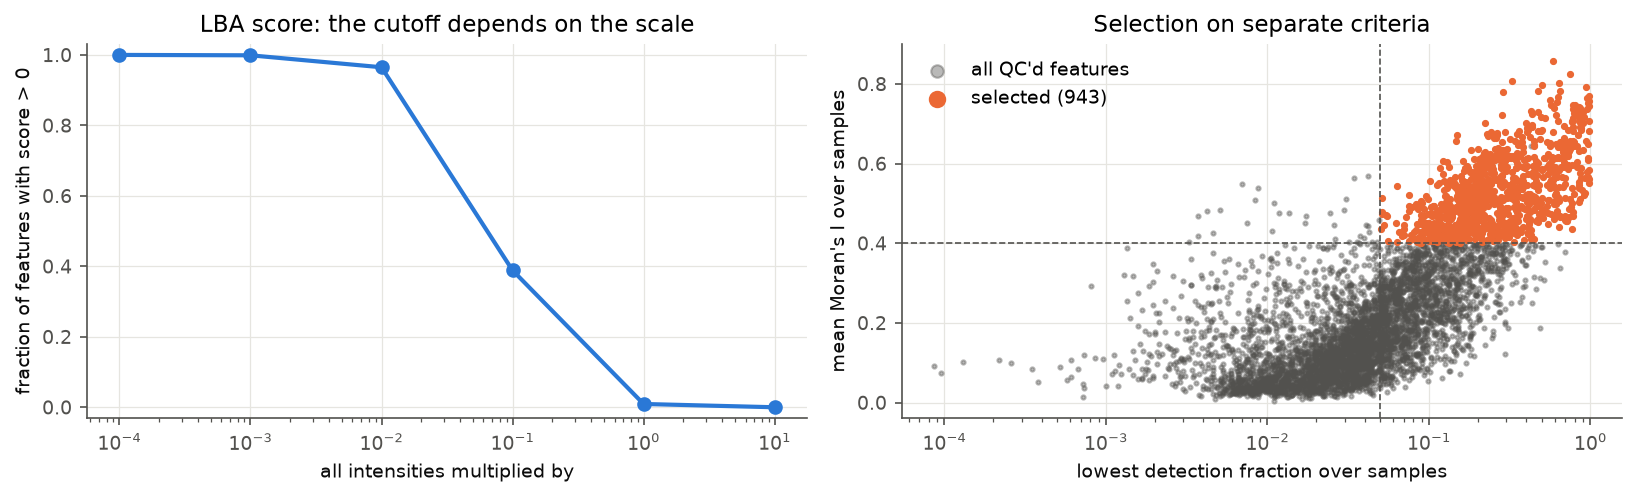
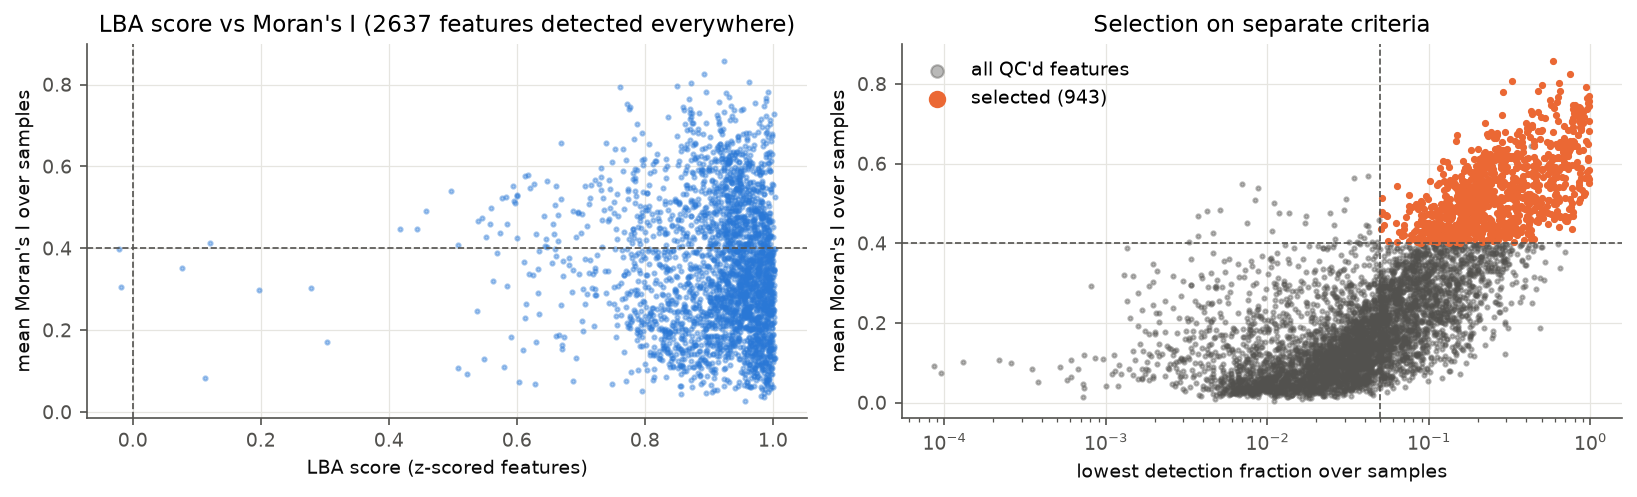
Tutorial 3-1: LBA score on z-scored features as in the LBA notebook and EUCLID; new Figure 3-1 left
Claude-Session: https://claude.ai/code/session_01FXoeyATFVqF4whg9rVjNnw

diff --git a/scripts/analysis_examples.py b/scripts/analysis_examples.py
@@ -43,7 +43,7 @@ def run(adata, out, batch="sample", name=None, resolution=1.0, n_components=16, 
     name = name if name is not None else adata.var["mz"].map(lambda m: f"m/z {m:.4f}")
     X = dense(adata.X).astype(np.float32)
 
-    # ---- 3-1 feature selection: Moran's I per sample (2-5), the LBA heuristic, and a standardized alternative
+    # ---- 3-1 feature selection: Moran's I per sample (2-5), the LBA score, and selection on separate criteria
     morans = pd.DataFrame(index=adata.var_names, columns=samples, dtype=float)
     for s in samples:
         S = adata[adata.obs[batch] == s].copy()
@@ -52,27 +52,28 @@ def run(adata, out, batch="sample", name=None, resolution=1.0, n_components=16, 
         sq.gr.spatial_autocorr(S, mode="moran", genes=S.var_names.tolist(), n_perms=None, show_progress_bar=False)
         morans[s] = S.uns["moranI"]["I"].reindex(adata.var_names)
     features = list(adata.var_names)
-    df = pd.DataFrame(X, columns=features, index=adata.obs_names).assign(Section=adata.obs[batch].to_numpy())
-    # the LBA heuristic as in 3-1, on the data at their own scale and after dividing all values by a constant
-    frac_pass = {}
-    for c in [1e-4, 1e-3, 1e-2, 1e-1, 1, 10]:
-        d = df[features] * c
-        sec_var = d.groupby(df["Section"]).var()
-        score = sec_var.mean() - sec_var.var() / 2
-        frac_pass[c] = float((score > 0).mean())
     det = pd.DataFrame({s: (X[(adata.obs[batch] == s).to_numpy()] > 0).mean(axis=0) for s in samples}, index=features)
     mean_moran = morans.mean(axis=1)
+    # the LBA score as in the LBA notebook and EUCLID: section variances of every feature z-scored over all pixels
+    total_var = X.var(axis=0, dtype=np.float64)
+    sv = np.vstack([X[(adata.obs[batch] == s).to_numpy()].var(axis=0, dtype=np.float64) for s in samples])
+    sv = sv / np.where(total_var > 0, total_var, np.nan)
+    lba = pd.Series(sv.mean(axis=0) - sv.var(axis=0) / 2, index=features)
+    everywhere = det.min(axis=1) >= 0.05
+    from scipy.stats import spearmanr
+    lba_num = {"detected_everywhere": int(everywhere.sum()), "score_pos": int((lba[everywhere] > 0).sum()),
+               "rho_moran": round(float(spearmanr(lba[everywhere], mean_moran[everywhere]).statistic), 2)}
     selected = mean_moran.index[(mean_moran > 0.4) & (det.min(axis=1) >= 0.05)]   # structured and detected everywhere
     # one well-detected, structured lipid is kept out of the embedding, to be restored from it in 3-4
     target = mean_moran[selected][det.loc[selected].min(axis=1) >= 0.3].sort_values().index
     target = target[int(0.75 * (len(target) - 1))]
     selected = selected.drop(target)
-    num.update(features=len(features), selected=len(selected), score_pass=frac_pass)
+    num.update(features=len(features), selected=len(selected), lba=lba_num)
     fig, ax = plt.subplots(1, 2, figsize=(11, 3.4))
-    ax[0].plot(list(frac_pass), list(frac_pass.values()), "o-", color=PAL[0], lw=2, ms=6)
-    ax[0].set_xscale("log"); ax[0].set_ylim(-0.03, 1.03)
-    ax[0].set(xlabel="all intensities multiplied by", ylabel="fraction of features with score > 0",
-              title="LBA score: the cutoff depends on the scale")
+    ax[0].scatter(lba[everywhere], mean_moran[everywhere], s=4, color=PAL[0], alpha=0.4, rasterized=True)
+    ax[0].axvline(0, color=MUTED, lw=0.8, ls="--"); ax[0].axhline(0.4, color=MUTED, lw=0.8, ls="--")
+    ax[0].set(xlabel="LBA score (z-scored features)", ylabel="mean Moran's I over samples",
+              title=f"LBA score vs Moran's I ({lba_num['detected_everywhere']} features detected everywhere)")
     ok = det.min(axis=1) >= 0.05
     ax[1].scatter(det.min(axis=1), mean_moran, s=4, color=MUTED, alpha=0.4, label="all QC'd features")
     ax[1].scatter(det.min(axis=1)[selected], mean_moran[selected], s=6, color=PAL[1], label=f"selected ({len(selected)})")

diff --git a/Tutorial.md b/Tutorial.md
@@ -1706,8 +1706,8 @@ Keep **three versions** of the intensities in the object, and be explicit about 
 
 ### 3-1 Feature selection
 <sub><a href="#top">(Back to top)</a></sub></br>
-As with highly variable genes in scRNA-seq, clustering works better on a subset of informative, well-measured features. For the LBA, "well-measured" meant consistent across serial sections. The LBA (notebook `004-FeatureSelectionForEmbedding`, reference brain only) computed for each feature
-* the mean of the section-wise variances (high = informative within sections),
+As with highly variable genes in scRNA-seq, clustering works better on a subset of informative, well-measured features. For the LBA, "well-measured" meant consistent across serial sections. The LBA (notebook `004-FeatureSelectionForEmbedding`, reference brain only) first z-scored every feature over all pixels (after setting values above 1, considered broken, to 1e-4), so that every feature has a total variance of 1, and then computed for each feature
+* the mean of the section-wise variances (high = the variance lies within sections rather than between section means),
 * the variance of the section-wise variances (high = inconsistent between sections, i.e. batch-affected), combined as `score = mean_of_vars - var_of_vars / 2`,
 * the mean Moran's I (> 0.4 required),
 * the number of sections in which the feature drops out (section mean < 1.5e-4; fewer than 4 dropouts allowed),
@@ -1716,7 +1716,7 @@ then clustered features in this score space with k-means (k = 10), inspected the
 
 ```python
 # prep (the EUCLID Preprocessing object) and final_table: created in 2-8; morans_df: prep.calculate_moran in 2-9
-prep.min0max1_normalize_clip()            # per-lipid 0-1 scaling for comparability
+prep.min0max1_normalize_clip()            # per-lipid 0-1 scaling, stored in obsm["X_01norm"] (not used below)
 prep.feature_selection(morans_df, modality="combined", moran_threshold=0.25,
                        cluster_k=10, output_csv="feature_scores.csv",
                        remove_untrustworthy=False)
@@ -1726,7 +1726,7 @@ reaction_df = prep.reaction_network(lipid_props_df)
 prep.save_msi_dataset()
 ```
 
-(Note that the EUCLID tutorial uses `moran_threshold=0.25` while the LBA notebooks used 0.4.)
+(Note that the EUCLID tutorial uses `moran_threshold=0.25` while the LBA notebooks used 0.4.) `feature_selection` computes the score as the notebook did, including the replacement of values above 1 by 1e-4, on `adata.X`. This assumes the scale of uMAIA-normalized values; on TIC-normalized intensities nearly all values are above 1 and would be replaced. The dropout threshold (1.5e-4) is on the same scale.
 
 #### Without EUCLID (scanpy and squidpy)
 Start from the table written in 2-9. Its `X` is a copy of the normalized intensities in `layers["tic_curated"]` (2-6), without a log transform. As in scRNA-seq, log-transform `X` first; the normalized values stay in the layer. Several steps need them: the LBA score and Moran's I below (computed on them in 2-5 as well), NMF (3-2), and all comparisons of intensities (3-4 to 3-6). The per-section summaries come from `sc.get.aggregate`:
@@ -1769,12 +1769,16 @@ morans = pd.DataFrame(morans)                        # features x sections
 The LBA heuristic is then:
 
 ```python
-score = sec_var.mean() - sec_var.var() / 2           # over sections: mean minus half the variance of the within-section variance
-dropouts = (sec_mean < 1.5e-4).sum()
+# the LBA z-scores every feature over all pixels first: section variances relative to the total variance
+adata.obs["all_pixels"] = "all"
+total_var = sc.get.aggregate(adata, by="all_pixels", func="var", layer="tic_curated").layers["var"][0]
+sec_var_z = sec_var / total_var
+score = sec_var_z.mean() - sec_var_z.var(ddof=0) / 2   # over sections: mean minus half the variance of the section variances
+dropouts = (sec_mean < 1.5e-4).sum()                  # 1.5e-4 is on the uMAIA scale; on other scales use det
 keep_lba = (morans.mean(axis=1) > 0.4) & (dropouts < 4) & (score > 0)
 ```
 
-The score subtracts quantities with different units (a variance and a variance of variances), so its value and the `score > 0` cutoff depend on the intensity scale. For new data, use separate criteria with their own meaning instead, such as within-sample variance, recurrence, spatial structure and replicate reproducibility. Here, spatial structure and detection in every section:
+Because every feature is z-scored, its total variance is 1, and the mean of the section variances is the share of its variance that lies within sections rather than between section means. The score is therefore high for features whose variance lies within sections and is similar in all sections, and it does not depend on the intensity scale. It does not say whether this variance is spatial structure or noise; that is what Moran's I adds. The cutoff `score > 0` removes few features; in the LBA, the selection came from the k-means clusters in score space and the inspection of their images. For new data, use criteria that can be read on their own, such as recurrence, spatial structure and replicate reproducibility. Here, spatial structure and detection in every section:
 
 ```python
 adata.var["moran_mean"] = morans.mean(axis=1)
@@ -1783,13 +1787,13 @@ adata.var["selected"] = (adata.var["moran_mean"] > 0.4) & (adata.var["det_min"] 
 selected = adata.var_names[adata.var["selected"]]    # the features used for the embedding (3-2)
 ```
 
-On the three zebrafish sections of 1-5, preprocessed as for the figures of section 2 (5,486 features detected in at least 5% of the tissue pixels of one section, TIC-normalized), the score behaves exactly like this: multiplying all intensities by a constant changes the fraction of features with a positive score from almost all to almost none (Figure 3-1, left). Separate criteria do not have this problem. 944 features have a mean Moran's I above 0.4 and are detected in at least 5% of the tissue pixels of every section (right). The figures below use 943 of them; one is kept out of the embedding to be restored from it in 3-4.
+On the three zebrafish sections of 1-5, preprocessed as for the figures of section 2 (5,486 features detected in at least 5% of the tissue pixels of one section, TIC-normalized), 2,635 of the 2,637 features detected in at least 5% of the tissue pixels of every section have a positive LBA score, and the score is not correlated with Moran's I (Spearman ρ = -0.08; Figure 3-1, left). 944 features have a mean Moran's I above 0.4 and are detected in at least 5% of the tissue pixels of every section (right). The figures below use 943 of them; one is kept out of the embedding to be restored from it in 3-4.
 
 ![Feature selection](figures/fig_3-1_features.png)
-*Figure 3-1. Left: fraction of the 5,486 zebrafish features with a positive LBA score after all intensities were multiplied by a constant; the cutoff `score > 0` selects almost all or almost none of them depending on the scale. Right: mean Moran's I against the lowest detection fraction over the three sections; the selected features (orange) pass both criteria (`scripts/make_analysis_figures.py`).*
+*Figure 3-1. Left: LBA score (on z-scored features, as in the LBA) against mean Moran's I for the 2,637 zebrafish features detected in at least 5% of the tissue pixels of every section; dashed lines: the cutoffs `score > 0` and Moran's I > 0.4. Right: mean Moran's I against the lowest detection fraction over the three sections; the selected features (orange) pass both criteria (`scripts/make_analysis_figures.py`).*
 
 #### scanpy's highly variable features in place of the LBA score
-The idea behind the LBA score, variance within sections that is consistent between sections, can be kept without its dependence on the intensity scale. In scRNA-seq this is the job of `sc.pp.highly_variable_genes`. None of its flavors computes the LBA score, but `flavor="seurat"` with `batch_key` does something close: for each section, it computes the dispersion (variance over mean) of every feature and standardizes it among features of similar mean; it then averages the standardized dispersion over sections and calls features above a cutoff highly variable. It replaces the score; detection and Moran's I remain separate criteria:
+In scRNA-seq, informative features are chosen with `sc.pp.highly_variable_genes`. None of its flavors computes the LBA score, but `flavor="seurat"` with `batch_key` is related: for each section, it computes the dispersion (variance over mean) of every feature and standardizes it among features of similar mean; it then averages the standardized dispersion over sections and calls features above a cutoff highly variable. Like the LBA score, it looks at the variance within each section, combines the sections, and does not depend on the intensity scale. It differs in what the variance is compared with: the LBA score compares the variance of a feature within sections with its total variance, the standardized dispersion compares it with that of features of similar abundance. It can replace the score; detection and Moran's I remain separate criteria:
 
 ```python
 detected = adata[:, adata.var["det_min"] >= 0.05].copy()     # detection first: sparse features have a high dispersion
@@ -1804,15 +1808,15 @@ Two settings differ from the scRNA-seq defaults:
 
 Because the dispersion is averaged, a feature that is very variable in one section can pass. For strict consistency, require the feature to be highly variable in every section (`detected.var["highly_variable_intersection"]`). Alternatively, `n_top_genes` fixes the number of features instead of the cutoff; it ignores `min_mean`, `max_mean` and `min_disp`, and ranks features first by the number of sections in which they are highly variable.
 
-On the zebrafish sections, 808 of the 2,637 detected features are called highly variable (468 in all three sections). For comparison with the LBA score, the table ranks the same 2,637 features by the score and takes the top 808, at the scale of the data and after multiplying all intensities by a small constant:
+On the zebrafish sections, 808 of the 2,637 detected features are called highly variable (468 in all three sections). For comparison, the table ranks the same 2,637 features by the LBA score and takes the top 808:
 
-| Criterion (on the 2,637 detected features) | Spearman ρ with mean intensity | Spearman ρ with mean Moran's I | Features with score > 0 | Of the top 808: mean Moran's I > 0.4 |
-|---|---|---|---|---|
-| Standardized dispersion (`flavor="seurat"`) | 0.08 | 0.23 | - | 389 |
-| LBA score, intensities × 1e-4 | 0.96 | 0.79 | 2,637 | 661 |
-| LBA score, intensities × 1 (TIC scale) | -0.84 | -0.67 | 18 | 51 |
+| Criterion (on the 2,637 detected features) | Spearman ρ with mean intensity | Spearman ρ with mean Moran's I | Of the top 808: mean Moran's I > 0.4 |
+|---|---|---|---|
+| Standardized dispersion (`flavor="seurat"`) | 0.08 | 0.23 | 389 |
+| LBA score (z-scored features) | -0.29 | -0.08 | 221 |
+| (all 2,637 detected features) | | | 944 of 2,637 |
 
-At a small scale, the mean of the variances dominates the score, and the score ranks features by their variance within sections, which follows abundance. At the scale of the data, the variance of the variances dominates, and the ranking reverses. In neither case does the score measure consistency between sections independently of abundance. Its agreement with Moran's I at a small scale also comes from abundance: Moran's I itself is correlated with mean intensity (ρ = 0.78), because abundant lipids have a better signal-to-noise ratio. The standardized dispersion is independent of abundance by construction and only weakly correlated with Moran's I, so it adds information that Moran's I does not have. The two criteria measure different things, pixel-to-pixel variance and spatial structure, and both are needed; 389 features pass both (`selected_hvf`). Like the 0.4 for Moran's I, `min_disp` is a choice; check the images of features just above and just below both cutoffs.
+Neither score follows abundance closely, but they rank features differently. The top features of the LBA score have a mean Moran's I above 0.4 less often (27%) than the detected features overall (36%): a variance that lies evenly within sections can be spatial structure or noise. The standardized dispersion is weakly correlated with Moran's I, and its top features pass 0.4 more often (48%). Neither replaces Moran's I, which measures spatial structure directly; 389 features pass both the dispersion and the Moran's I criteria (`selected_hvf`). With only three sections, the variance of the section variances rests on three values each; with more sections, as in the LBA, both scores combine more sections and become more stable. Like the 0.4 for Moran's I, `min_disp` is a choice; check the images of features just above and just below both cutoffs.
 
 ### 3-2 Dimensionality reduction and data integration
 <sub><a href="#top">(Back to top)</a></sub></br>
